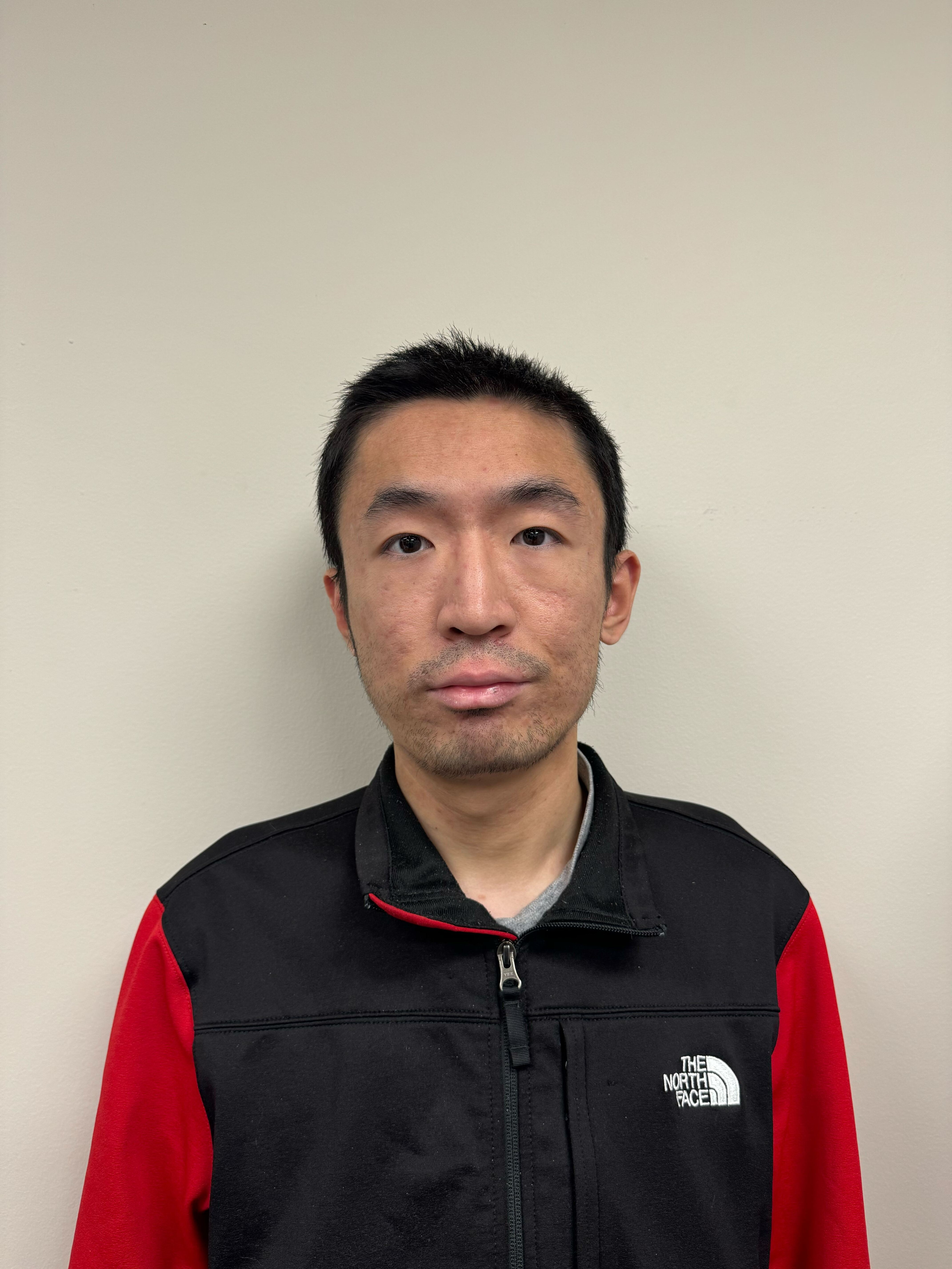
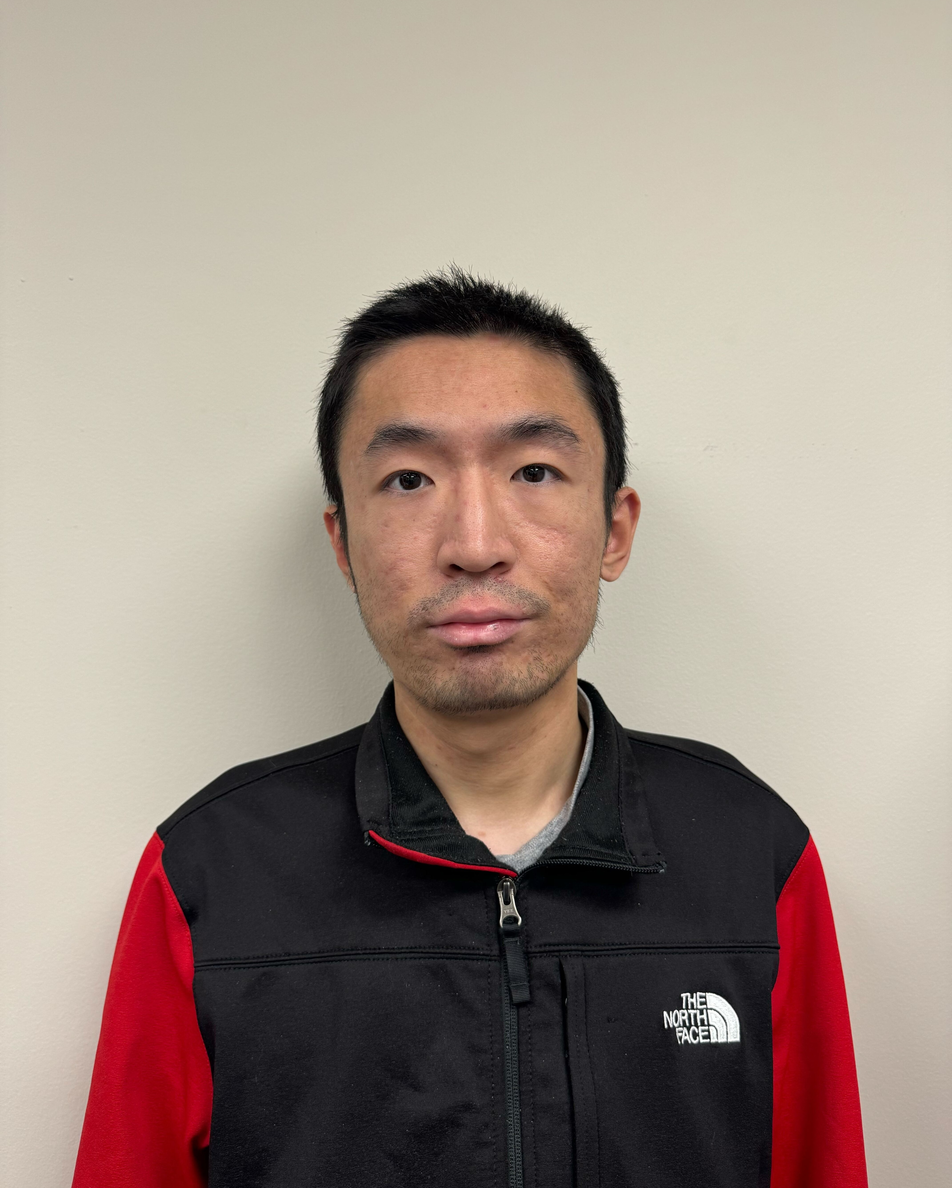
image changes

diff --git a/_pages/profiles.md b/_pages/profiles.md
@@ -10,6 +10,13 @@ profiles:
   # if you want to include more than one profile, just replicate the following block
   # and create one content file for each profile inside _pages/
   - align: center
+    image: people/Weizi.jpg
+    # content: about_people/about_bibek.md
+    image_circular: true # crops the image to make it circular
+    more_info: >
+      <p>Weizi Li</p>
+
+  - align: center
     image: people/Iftekhar.jpg
     # content: about_people/about_bibek.md
     image_circular: true # crops the image to make it circular
